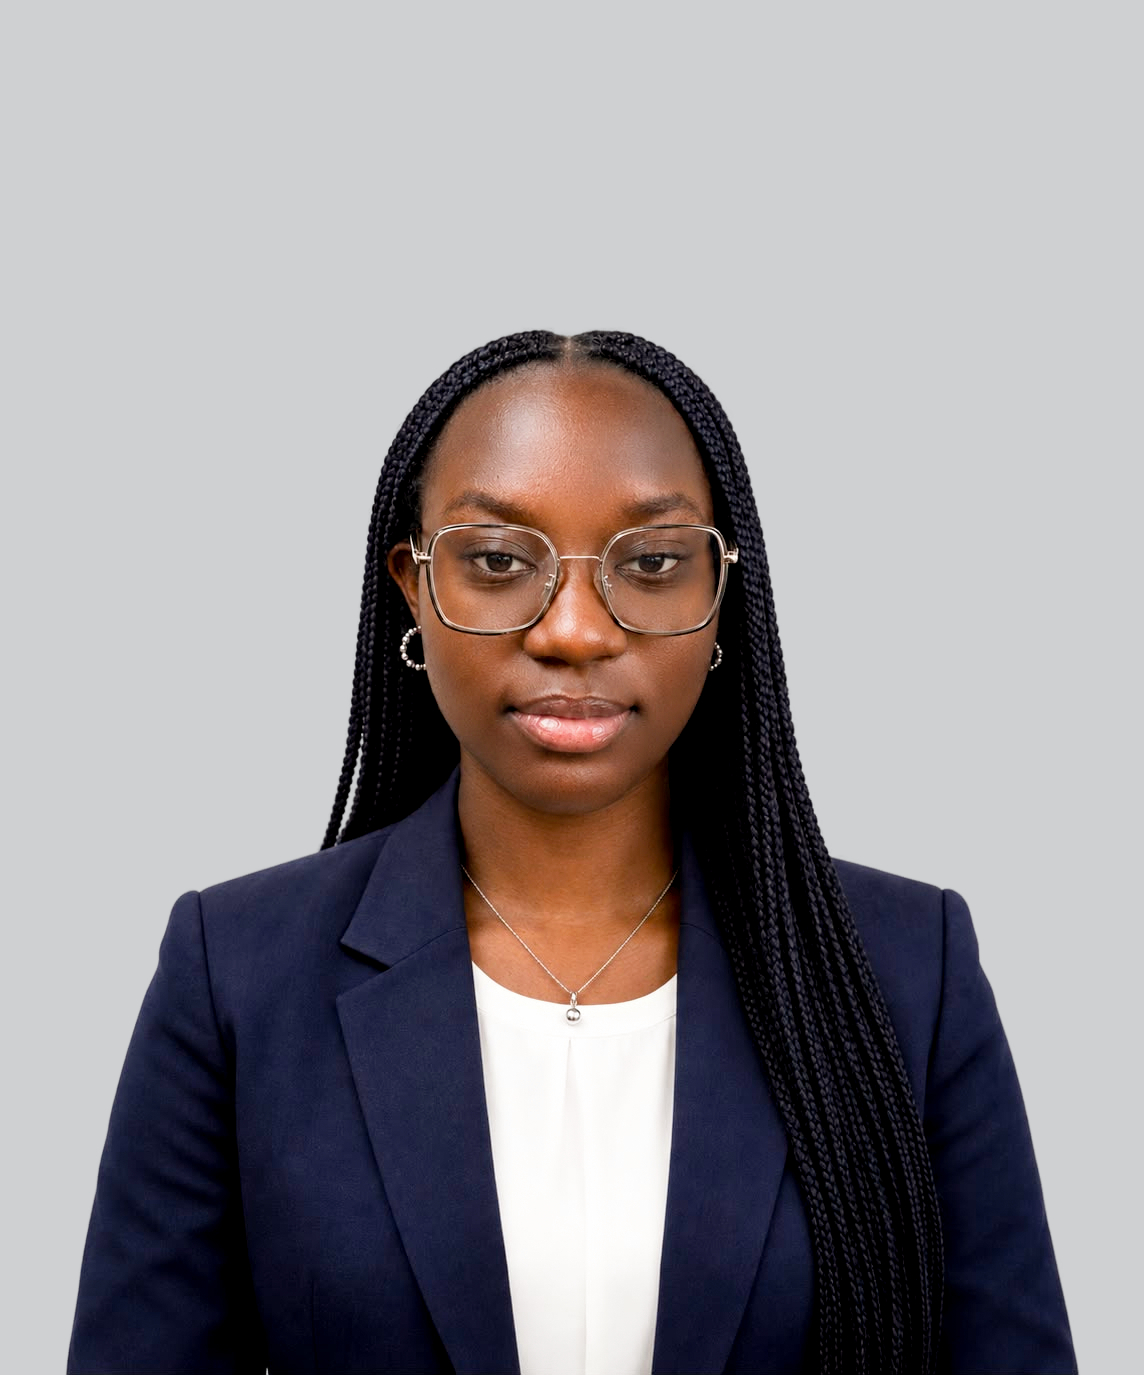
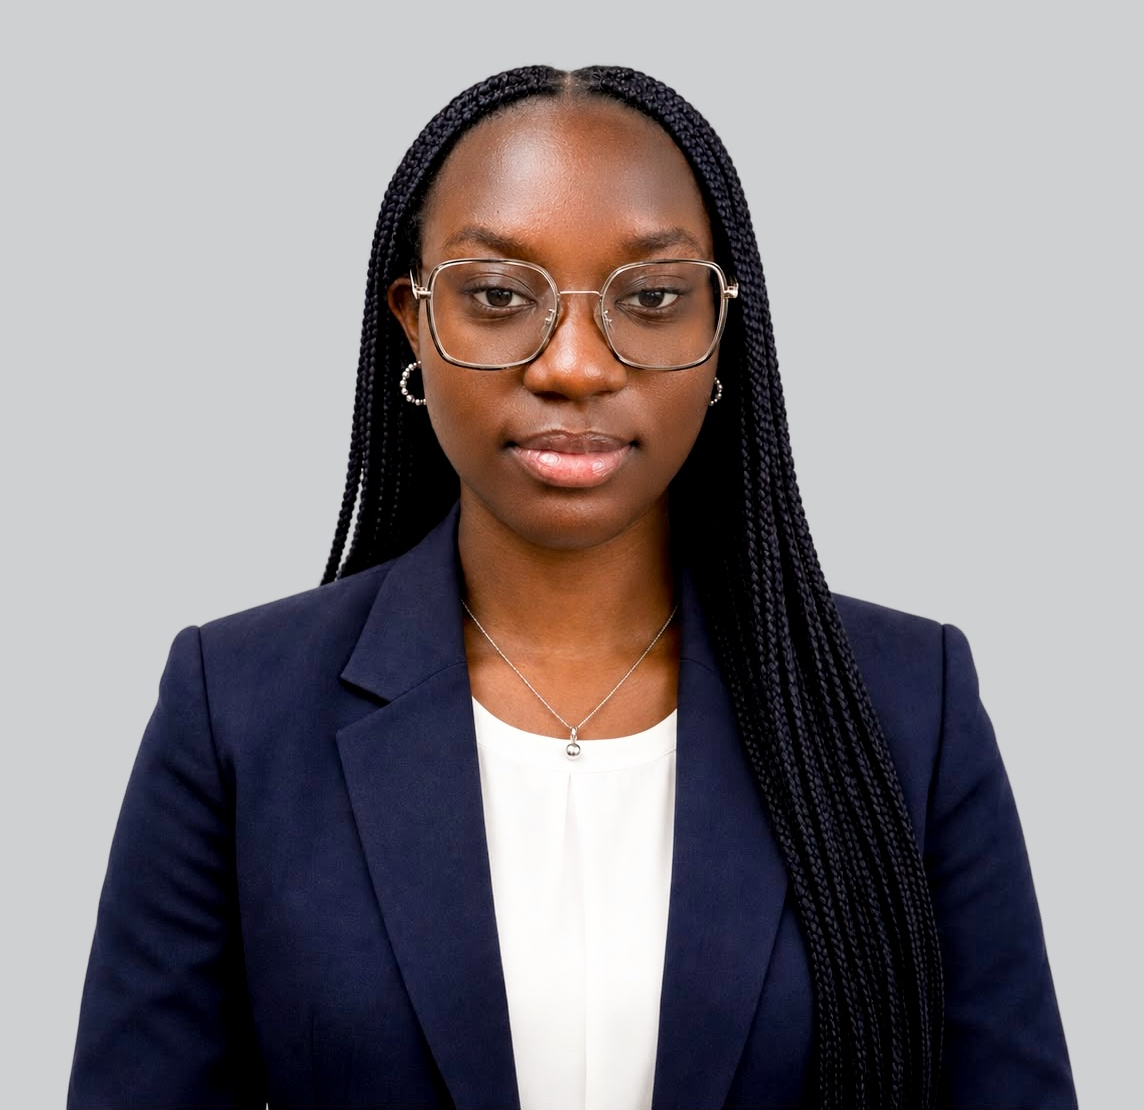
Normalize Gloria's source photo instead of compensating with CSS
Her original photo had ~24% empty headspace above her hair, vs 5-8%
for the other Governance Board members, which is why she needed a
custom object-position (58-63%) that still didn't hold up consistently
across breakpoints since the required offset is highly sensitive to
frame aspect ratio for a photo with this much excess vertical space.

Cropped 265px off the top of the source image so her hairline now
sits at 6.3% of the image height, in line with Giovanny (6.4%),
Winner (4.9%), and Vianney (7.7%). She now uses the same plain
object-position: top as everyone else, with no per-breakpoint
overrides needed - computed headspace stays in the 7.5-9.1% range
across every card size on both the listing and profile pages, a
similar spread to what the reference members already show naturally.

Removes the now-unused imageClassName prop/CSS hook that existed
solely for Gloria's old mobile-specific positioning hack.

diff --git a/app/about/leadership/page.tsx b/app/about/leadership/page.tsx
@@ -56,8 +56,6 @@ const historicalLeadershipData = {
       href: '/about/leadership/gloria-asopjio',
       linkedinUrl: 'https://www.linkedin.com/in/gloria-alana-asopjio-060012332/',
       image: '/images/leadership/gloria-asopjio.jpg',
-      imagePosition: 'center 58%',
-      imageClassName: 'lp-gloria-photo',
     },
     {
       name: 'Alissa Mokem',
@@ -76,8 +74,6 @@ const historicalLeadershipData = {
       href: '/about/leadership/gloria-asopjio',
       linkedinUrl: 'https://www.linkedin.com/in/gloria-alana-asopjio-060012332/',
       image: '/images/leadership/gloria-asopjio.jpg',
-      imagePosition: 'center 58%',
-      imageClassName: 'lp-gloria-photo',
     },
     {
       name: 'Alissa Mokem',
@@ -103,8 +99,8 @@ function PersonIcon() {
   )
 }
 
-function PersonCard({ name, role, bio, href, showBio = true, showLink = true, linkedinUrl, lang = 'en', image, imagePosition = 'top', imageClassName }: {
-  name: string; role: string; bio?: string; href?: string; showBio?: boolean; showLink?: boolean; linkedinUrl?: string; lang?: 'en' | 'fr'; image?: string; imagePosition?: string; imageClassName?: string
+function PersonCard({ name, role, bio, href, showBio = true, showLink = true, linkedinUrl, lang = 'en', image, imagePosition = 'top' }: {
+  name: string; role: string; bio?: string; href?: string; showBio?: boolean; showLink?: boolean; linkedinUrl?: string; lang?: 'en' | 'fr'; image?: string; imagePosition?: string
 }) {
   return (
     <div className="lp-person-card">
@@ -114,7 +110,7 @@ function PersonCard({ name, role, bio, href, showBio = true, showLink = true, li
         style={{ background: '#e8e8e8', position: 'relative', overflow: 'hidden' }}
       >
         {image ? (
-          <Image src={image} alt={name} fill className={imageClassName} style={{ objectFit: 'cover', objectPosition: imagePosition }} />
+          <Image src={image} alt={name} fill style={{ objectFit: 'cover', objectPosition: imagePosition }} />
         ) : (
           <PersonIcon />
         )}
@@ -365,7 +361,7 @@ export default function LeadershipPage() {
             <SectionTitle>{lang === 'fr' ? 'Anciens Dirigeants' : 'Historical Leadership'}</SectionTitle>
             <div className="grid grid-cols-1 md:grid-cols-2 lg:grid-cols-3 gap-8">
               {filteredHistorical.map(p => (
-                <PersonCard key={p.name} name={p.name} role={p.role} bio={p.bio} href={p.href} showLink={false} linkedinUrl={p.linkedinUrl} image={p.image} imagePosition={p.imagePosition} imageClassName={(p as { imageClassName?: string }).imageClassName} />
+                <PersonCard key={p.name} name={p.name} role={p.role} bio={p.bio} href={p.href} showLink={false} linkedinUrl={p.linkedinUrl} image={p.image} imagePosition={p.imagePosition} />
               ))}
             </div>
           </section>

diff --git a/app/globals.css b/app/globals.css
@@ -1912,7 +1912,6 @@ input:-webkit-autofill:active {
   .lp-person-bio  { font-size: 15px !important; }
   .view-profile-link { font-size: 14px !important; }
   .lp-person-img  { height: 240px !important; }
-  .lp-gloria-photo { object-position: center 53% !important; }
   .lp-header      { gap: 16px !important; }
   .lp-search-input, .lp-dropdown-trigger, .lp-dropdown-option { font-size: 15px !important; }
   .lp-search-btn { font-size: 14px !important; }

diff --git a/app/about/leadership/[slug]/page.tsx b/app/about/leadership/[slug]/page.tsx
@@ -95,7 +95,6 @@ const PEOPLE: Record<string, { name: string; role: string; roleFr?: string; bio:
     bioFr: "Gloria a coordonné les relations communautaires pour les premières initiatives de l'organisation.",
     linkedin: 'https://www.linkedin.com/in/gloria-alana-asopjio-060012332/',
     image: '/images/leadership/gloria-asopjio.jpg',
-    imagePosition: 'center 63%',
   },
   'alissa-mokem': {
     name: 'Alissa Mokem',
